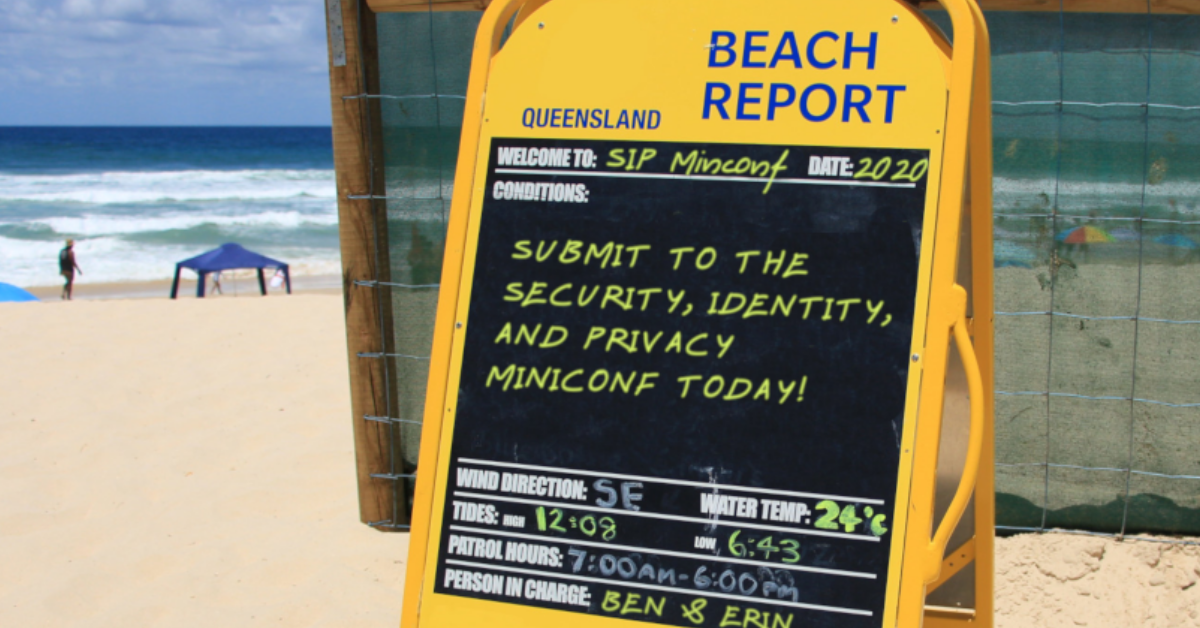
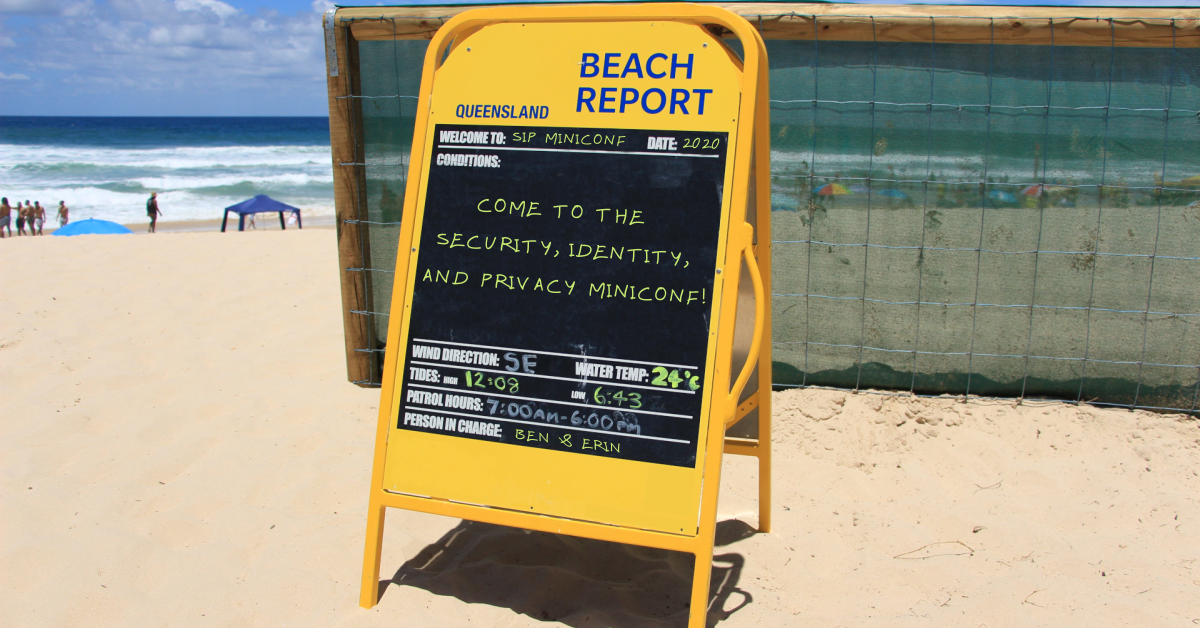
Updated time-related content

diff --git a/lca-2020/index.htm b/lca-2020/index.htm
@@ -9,18 +9,18 @@
   <meta property="og:description" content="Never has security been more in the news. Companies around the world know that they are going to have to prioritise identity and privacy within systems designs and processes, to ensure customers and clients are protected more than ever. While laws like the GDPR give us guidelines and recommendations on best practices for data collection and storage, you need look no further than the Security, Identity, and Privacy Miniconf to level up your skills with talks and practical advice from professionals and thought leaders."/>
   <meta property="og:type" content="website"/>
   <meta property="og:url" content="https://sip.events/lca-2018/"/>
-  <meta property="og:image" content="https://sip.events/lca-2020/card-1200-628.png?t=20190923"/>
+  <meta property="og:image" content="https://sip.events/lca-2020/card-1200-628.png?t=20191204"/>
   <meta name="twitter:card" content="summary_large_image"/>
   <meta name="twitter:creator" content="@bendechrai"/>
   <meta name="twitter:title" content="Security, Identity, and Privacy Miniconf at linux.conf.au 2020"/>
   <meta name="twitter:description" content="Never has security been more in the news. Companies around the world know that they are going to have to prioritise identity and privacy within systems designs and processes, to ensure customers and clients are protected more than ever. While laws like the GDPR give us guidelines and recommendations on best practices for data collection and storage, you need look no further than the Security, Identity, and Privacy Miniconf to level up your skills with talks and practical advice from professionals and thought leaders."/>
-  <meta name="twitter:image" content="https://sip.events/lca-2020/card-506-253.png?t=20190923"/>
+  <meta name="twitter:image" content="https://sip.events/lca-2020/card-506-253.png?t=20191204"/>
   <!--meta name="twitter:label1" value="CfP Round 1 Closes"/-->
   <!--meta name="twitter:data1" value="Sunday 17th November 2019 (AoE)"/-->
-  <meta name="twitter:label1" value="CfP Round 2 Closes"/>
-  <meta name="twitter:data1" value="Sunday 1st December 2019 (AoE)"/>
-  <meta name="twitter:label2" value="Event Date"/>
-  <meta name="twitter:data2" value="Tuesday 14th January 2020"/>
+  <!--meta name="twitter:label1" value="CfP Round 2 Closes"/-->
+  <!--meta name="twitter:data1" value="Sunday 1st December 2019 (AoE)"/-->
+  <meta name="twitter:label1" value="Event Date"/>
+  <meta name="twitter:data1" value="Tuesday 14th January 2020"/>
 </head>
 <body>
   <header>
@@ -57,7 +57,6 @@
         <img src="brett-sheffield.jpg" alt="Profile photo for Brett Sheffield"/>
         <p><strong>Brett Sheffield</strong><span>:</span> The Internet: Protecting Our Democratic Lifeline</p>
       </li>
-      <li><strong>You?</strong> <a href="https://lca2020.linux.org.au/proposals/submit/security-miniconf/">Submit via the LCA Submissions System</a></li>
     </ul>
   </section>
   
@@ -82,21 +81,21 @@
       <li><strong>CFP Opens</strong>: Monday, 30th September 2019</li>
       <li><strike><strong>Round 1 CFP Closes</strong>: Sunday, 17th November 2019</strike></li>
       <li><strike><strong>Round 1 Selection</strong>: Sunday, 24th November 2019</strike></li>
-      <li><strong>Round 2 CFP Closes</strong>: Sunday, 1st December 2019</li>
-      <li><strong>Round 2 Selection</strong>: Sunday, 8th December 2019</li>
+      <li><strike><strong>Round 2 CFP Closes</strong>: Sunday, 1st December 2019</strike></li>
+      <li><strike><strong>Round 2 Selection</strong>: Sunday, 8th December 2019</strike></li>
       <li><strong>Schedule published</strong>: Sunday, 15th December 2019</li>
     </ul>
-    <div style="text-align: center; margin: 10px 0"><a href="https://lca2020.linux.org.au/proposals/submit/security-miniconf/" class="button">Submit via the LCA Submissions System</a></div>
+    <!--<div style="text-align: center; margin: 10px 0"><a href="https://lca2020.linux.org.au/proposals/submit/security-miniconf/" class="button">Submit via the LCA Submissions System</a></div>-->
     <p><em>All times are Anywhere on Earth (<a href="https://en.wikipedia.org/wiki/Anywhere_on_Earth">AoE</a>).</em></p>
   </section>
 
-  <hr>
+  <!--<hr>
 
   <section class="ticket-info">
     <h2>Tickets, Accommodation, and Financial Assistance</h2>
     <p>LCA miniconferences are community run events, and as such, everyone, including speakers, will be required to purchase a ticket. We are awaiting news of a Miniconf-only ticket option, and will update this page if one becomes available.</p>
     <p>While we don't have a budget, we are happy to help identify sources of funding for speakers who need financial assistance.</p>
-  </section>
+  </section>-->
 
   <section class="content-description">
     <h2>What We're Looking For</h2>
@@ -105,19 +104,19 @@
         <h3>Security</h3>
         <p>Do you work in security? Are you a software developer who focuses on security, or are you a pen tester? Whatever you do, we all need to keep security in mind.</p>
         <p>Whether you would like to talk about the OWASP Top 10, or demo a security testing tool, or write a virus, or show how you used the HaveIBeenPwned API... whatever it is, we want to hear about it.</p>
-        <div class="submit"><a href="https://lca2020.linux.org.au/proposals/submit/security-miniconf/" class="button">Submit today!</a></div>
+        <!--<div class="submit"><a href="https://lca2020.linux.org.au/proposals/submit/security-miniconf/" class="button">Submit today!</a></div>-->
       </div>
       <div class="identity">
         <h3>Identity</h3>
         <p>Do you work in identity? Have you worked on a project recently that required you to manage users across disparate systems in one central spot? Identity is critical to pretty much every application today.</p>
         <p>Whether you would like to talk about implementing an Identity as a Service Provider, or you've developed a system for verifying identities online, or you have opinions on how identity management can be made better... whatever it is, we want to hear about it.</p>
-        <div class="submit"><a href="https://lca2020.linux.org.au/proposals/submit/security-miniconf/" class="button">Submit today!</a></div>
+        <!--<div class="submit"><a href="https://lca2020.linux.org.au/proposals/submit/security-miniconf/" class="button">Submit today!</a></div>-->
       </div>
       <div class="privacy">
         <h3>Privacy</h3>
         <p>Do you work with sensitive data? Do you work hard to protect yourself online? Privacy is the act of controlling what's public about you, not the absence of data about you, and it's of paramount importance for myriad reasons.</p>
         <p>Whether you want to talk about managing your privacy and anonymity online, or how your organisation implemented the GDPR guidelines and recommendations, or ways that software companies can implement zero knowledge... whatever it is, we want to hear about it.</p>
-        <div class="submit"><a href="https://lca2020.linux.org.au/proposals/submit/security-miniconf/" class="button">Submit today!</a></div>
+        <!--<div class="submit"><a href="https://lca2020.linux.org.au/proposals/submit/security-miniconf/" class="button">Submit today!</a></div>-->
       </div>
     </div>
   </section>
